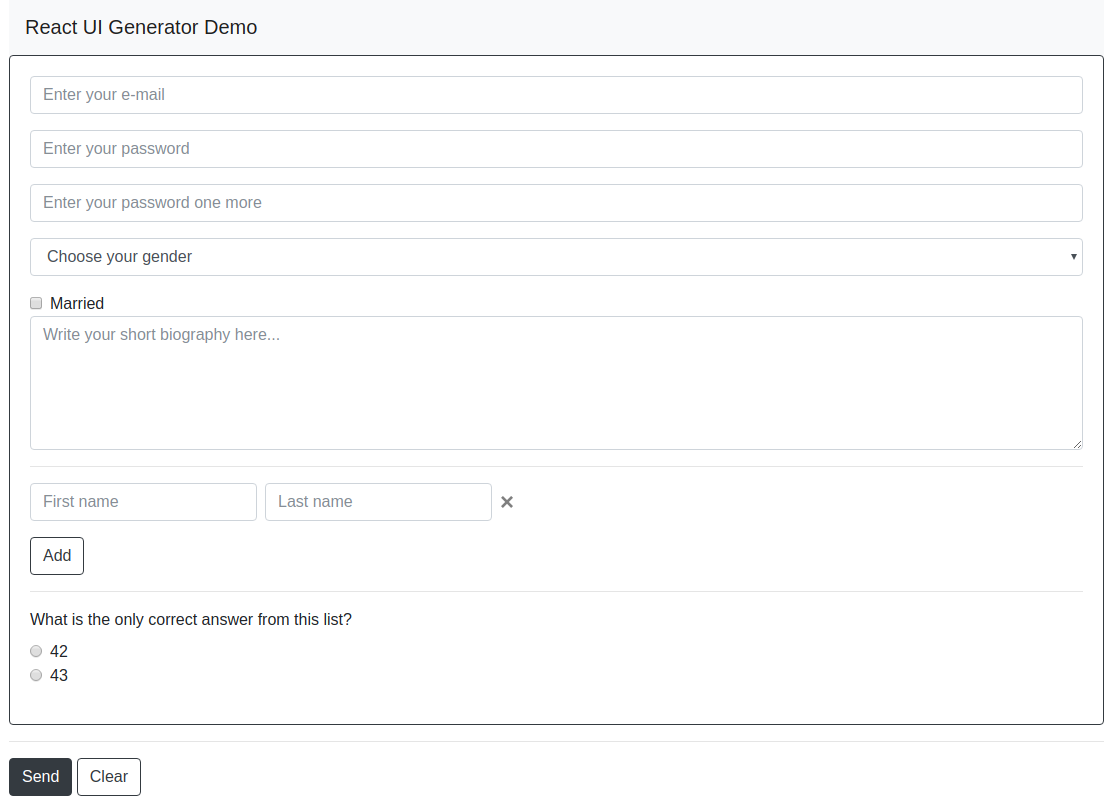
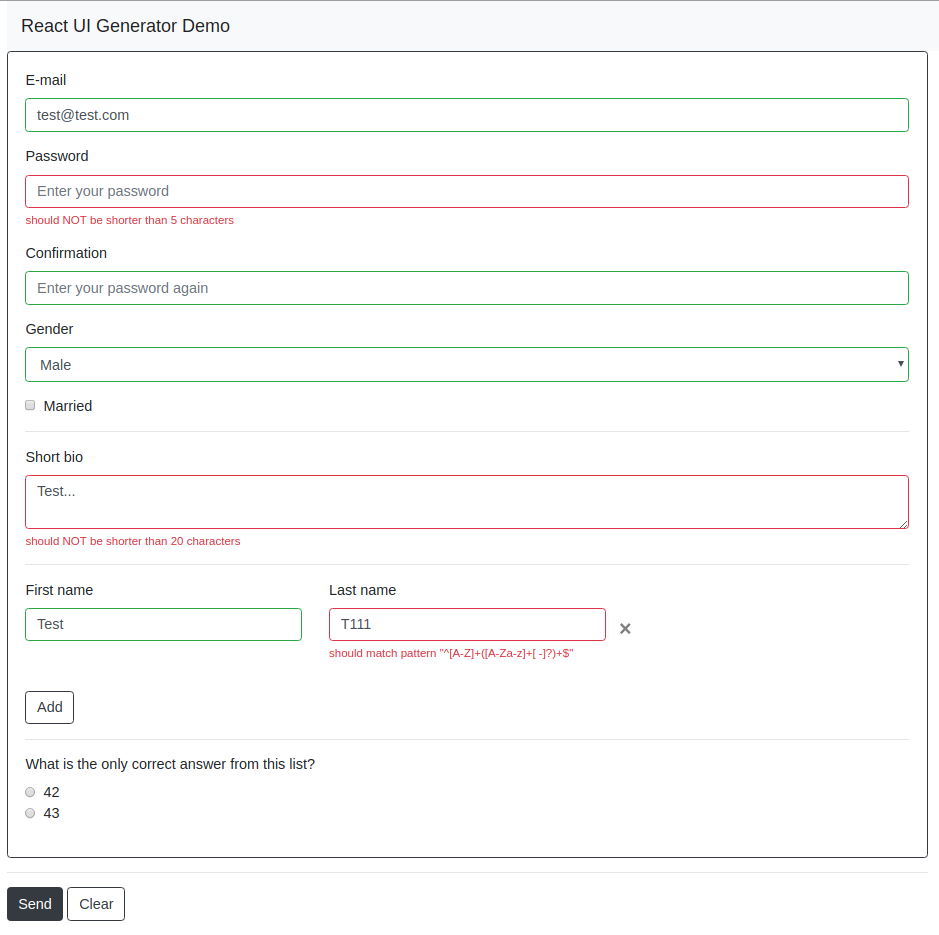
Add validation of nested subforms. Add Roadmap

Changed region(s): [[0.0, 0.0, 1.0, 0.9006], [0.0, 0.7453, 0.9883, 0.9938]]

diff --git a/packages/core/src/components/GeneratedForm.tsx b/packages/core/src/components/GeneratedForm.tsx
@@ -16,12 +16,13 @@ import { ListForm } from '../components/renderers/ListForm';
 export interface GeneratedFormProps {
   className: string;
   meta: FormMetaDescription;
-  data: KeyValue,
+  data: KeyValue;
   errors: KeyValue;
   validator(formData: KeyValue): KeyValue;
   renderers: { [key: string]: typeof FieldRenderer };
   actions?: KeyValue;
   onChange(data: any, errors: any): void;
+  isSubForm?: boolean;
 }
 
 export class GeneratedForm extends React.PureComponent<GeneratedFormProps, {}> {
@@ -32,7 +33,7 @@ export class GeneratedForm extends React.PureComponent<GeneratedFormProps, {}> {
   handleChange(fieldId: string, newValue: any): void {
     const nextData = { ...this.props.data };
     nextData[fieldId] = { value: newValue, isDirty: true };
-    const nextErrors = this.props.validator(nextData);
+    const nextErrors = this.props.isSubForm ? {} : this.props.validator(nextData);
 
     this.props.onChange(nextData, nextErrors.errors);
   }
@@ -71,23 +72,26 @@ export class GeneratedForm extends React.PureComponent<GeneratedFormProps, {}> {
         continue;
       }
 
-      const Renderer = type === 'form'
-        ? SubForm
-        : type === 'list' ? ListForm : renderers[type];
+      const Renderer =
+        type === 'form' ? SubForm : type === 'list' ? ListForm : renderers[type];
 
       const actions: { [key: string]: any } = Utils.extractFieldActions(
         formActions,
         fieldActions
       );
 
-      const subFormAdditionalProps = (type === 'form' || type === 'list') ? {
-        serializer,
-        renderers,
-        formData: data[id],
-        actions: formActions,
-        errors: errors[id] || {},
-        validator,
-      } : {};
+      const subFormAdditionalProps =
+        type === 'form' || type === 'list'
+          ? {
+              isSubForm: true,
+              formData: data[id],
+              actions: formActions,
+              errors: errors[id] || (type === 'list' ? [] : {}),
+              serializer,
+              renderers,
+              validator
+            }
+          : {};
 
       fields.push(
         <Renderer
@@ -101,7 +105,7 @@ export class GeneratedForm extends React.PureComponent<GeneratedFormProps, {}> {
             this.handleChange(id, newValue);
           }}
           disabled={disabled}
-          { ...subFormAdditionalProps }
+          {...subFormAdditionalProps}
         >
           {id}
         </Renderer>

diff --git a/packages/core/src/validator.ts b/packages/core/src/validator.ts
@@ -1,3 +1,4 @@
+import { get, set } from 'lodash';
 import { FormMetaDescription, KeyValue } from './interfaces';
 import { Key } from 'react';
 
@@ -5,7 +6,6 @@ export type Validator = (formValue: KeyValue) => KeyValue;
 
 export function buildValidator(validatorFn: Function, schema: KeyValue): Validator {
   return (formValue: KeyValue): KeyValue => {
-    console.log('formValue: ', formValue);
     const validationResult = validatorFn(schema, prepareValidatedData(formValue));
     const allFields: KeyValue = {};
 
@@ -45,17 +45,30 @@ export function buildAjvValidator(AjvFn: typeof Ajv, schema: KeyValue): Validato
     const ajv: KeyValue = new AjvFn({ allErrors: true, $data: true });
     const validate = ajv.compile(schema);
     const isValid = validate(data);
-    const errors = validate.errors;
-    console.log('validate.errors: ', validate.errors);
+    const errors = validate.errors || [];
 
     const processedErrors = errors.reduce((acc: KeyValue, item: KeyValue) => {
-      const fieldName = item.dataPath.replace(/^\./, '');
+      const [fieldName, subFormIndex] = item.dataPath
+        .replace(/^\./, '')
+        .split('[')
+        .map((item: string) => item.replace(']', ''));
+
       const fieldErrors = acc[fieldName] || [];
       const message = (item.keyword === 'enum' && item.params.allowedValues)
         ? `${item.message}: [${item.params.allowedValues}]`
         : item.message;
 
-      acc[fieldName] = [...fieldErrors, message];
+      if (subFormIndex) {
+        const [ idx, ...path ] = subFormIndex.split('.');
+        const subFormErrObj = fieldErrors[idx] || {};
+        const subFormErrors = get(subFormErrObj, path, []);
+
+        fieldErrors[idx] = set(subFormErrObj, path, [...subFormErrors, message])
+        acc[fieldName] = fieldErrors;
+      } else {
+        acc[fieldName] = [...fieldErrors, message];
+      }
+
       return acc;
     }, {});
 

diff --git a/packages/demo/src/containers/GeneratedFormExample.jsx b/packages/demo/src/containers/GeneratedFormExample.jsx
@@ -40,7 +40,7 @@ class GeneratedFormExample extends React.PureComponent {
 
     return (
       <GeneratedForm
-        className="form"
+        className="form-demo"
         meta={meta}
         data={data}
         errors={errors}
@@ -65,10 +65,12 @@ class GeneratedFormExample extends React.PureComponent {
 
             <div className="form-group">
               <Field id="relatives" className="card--spaced">
-                <div className="form-inline">
-                  <FormGroups className="mb-2 mr-sm-2 mb-sm-0">
-                    <Fields />
+                <div className="form-inline1 row">
+                  <FormGroups className="col-md-4">
+                    <Fields until="btnRemoveRelative" />
                   </FormGroups>
+
+                  <Field id="btnRemoveRelative" />
                 </div>
               </Field>
             </div>

diff --git a/packages/core/src/components/renderers/ListForm.tsx b/packages/core/src/components/renderers/ListForm.tsx
@@ -72,11 +72,12 @@ export class ListForm extends React.PureComponent<ListFormProps, {}> {
           className={className || ''}
           meta={{ fields: enhancedFieldsMeta }}
           data={itemData}
-          errors={errors}
+          errors={errors[idx] || {}}
           validator={validator}
           renderers={renderers}
           actions={wrappedActions}
           onChange={data => this.handleOnChange(idx, data)}
+          isSubForm
         >
           {this.props.children}
         </GeneratedForm>

diff --git a/packages/demo/src/reducers.js b/packages/demo/src/reducers.js
@@ -22,7 +22,7 @@ const initialState = {
 function reducer(state = initialState, { type: actionType, payload }) {
   switch (actionType) {
     case UPDATE_FORM: {
-      console.log(UPDATE_FORM, payload.nextData, payload.nextErrors);
+      // console.log(UPDATE_FORM, payload.nextData, payload.nextErrors);
       return merge(state, { data: payload.nextData, errors: payload.nextErrors });
     }
 

diff --git a/packages/core/config/webpack.config.js b/packages/core/config/webpack.config.js
@@ -17,7 +17,10 @@ module.exports = {
     modules: [resolve('src'), 'node_modules'],
     plugins: [
       new TsConfigPathsPlugin({})
-    ]
+    ],
+    // alias: {
+    //   'lodash-set': resolve('node_modules/lodash.set'),
+    // }
   },
 
   module: {

diff --git a/packages/core/src/components/renderers/SubForm.tsx b/packages/core/src/components/renderers/SubForm.tsx
@@ -60,6 +60,7 @@ export class SubForm extends React.PureComponent<SubFormProps, {}> {
         renderers={renderers}
         actions={actions}
         onChange={onChange}
+        isSubForm
       >
         {this.props.children}
       </GeneratedForm>

diff --git a/packages/core/src/interfaces.ts b/packages/core/src/interfaces.ts
@@ -50,7 +50,7 @@ export interface FieldProps {
     value: string | boolean;
     isDirty: boolean;
   };
-  errors?: string[];
+  errors?: any[];
   actions: KeyValue;
   config: KeyValue;
   disabled: boolean;

diff --git a/README.md b/README.md
@@ -29,4 +29,4 @@ This is screenshot of the form, generated with bootstrap renderers. Metadata for
 ## TODO
 
 - complete this README.md
-- ...
+- see [Roadmap](./TODO)
